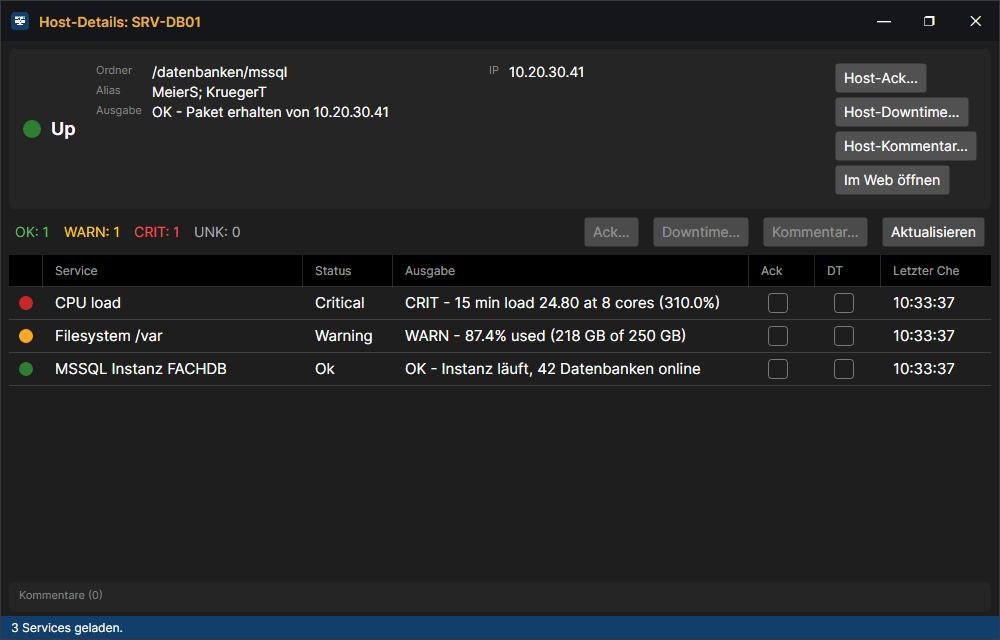
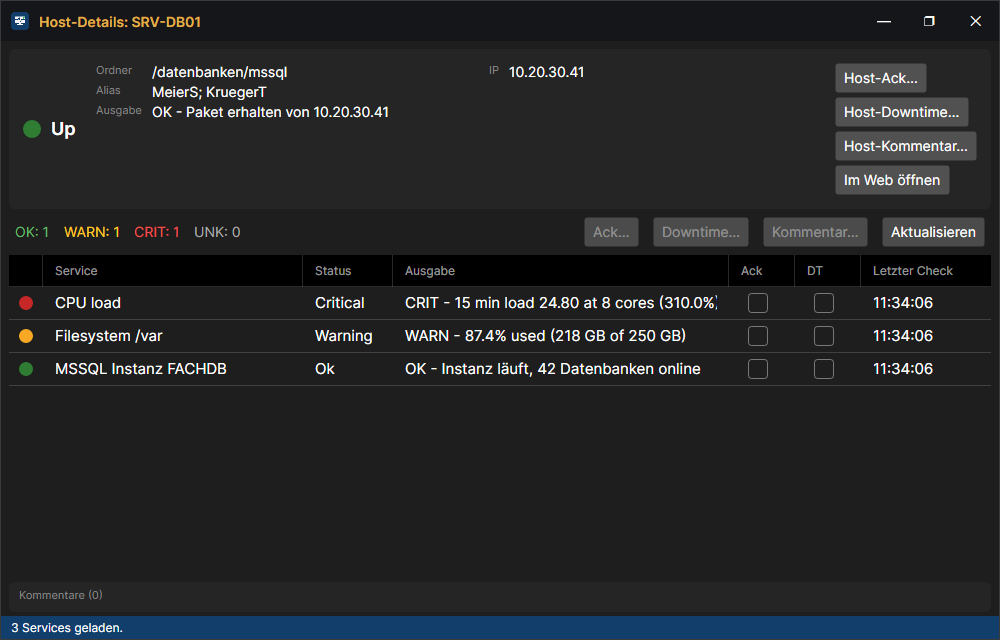
fix: fuenf Funde aus der Durchsicht, zwei davon halbe Fixes von letzter Woche
Release-Notes-Formatierer, der eigentliche Fehler eine Ebene tiefer:
Clean() schnitt die Backticks weg, BEVOR Inline() die **-Paare zaehlte. Aus
einem woertlich gemeinten `**` wurde dadurch eine echte Markierung, die
Zaehlung ging ungerade auf - und der GANZE Absatz verlor seine Fettung, mit
sichtbaren Sternchen. Im committeten docs/update.png stand genau das:
"**Das Markdown stand roh da**". Jetzt erst Code-Spannen, dann Fettung;
unpaarige Backticks bleiben stehen, symmetrisch zur **-Regel.

Spaltenbreite 50 -> 66 erreichte niemanden, der die App schon benutzt:
StatusGridColumns.Apply ueberschreibt die Vorgabe mit dem Wert aus
columns.json. Jetzt MinWidth an der Spalte UND Math.Max in Apply - die
Klemmung soll nicht von Avalonias interner Korrektur abhaengen.

Dazu:
- "Letzter Check" stand als "Letzter Che" da (110 px), im Status-Katalog wie
  im Host-Detail. 130 px, mit MinWidth.
- ScreenshotTool: Zielordner-Aufbau lag ausserhalb des try. Ohne Fenster, mit
  OnExplicitShutdown und dem UI-Waechter darueber haette ein ungueltiger Pfad
  den Prozess wortlos haengen lassen.
- Der UpdateDialog holt seinen Installer aus App.Services, und der ist im
  Werkzeugmodus null - "Jetzt installieren" fehlte im Bild, ausgerechnet der
  Knopf, um den es in den Notes ging. Wird jetzt mitgegeben.
- Status- und Filter-Manager-Bild teilten sich die Filter-Collection; seit der
  Alias-Filter dort vorgewaehlt ist, zeigte das Statusbild ein Achtel der
[…]

diff --git a/Checkmk.App/Services/ReleaseNotesFormatter.cs b/Checkmk.App/Services/ReleaseNotesFormatter.cs
@@ -145,15 +145,49 @@ public static class ReleaseNotesFormatter
 
     /// <summary>
     /// Zerlegt eine Zeile in Stücke mit und ohne Fettung (<c>**…**</c>).
+    /// Backticks fallen dabei weg, ihr Inhalt bleibt.
     ///
-    /// <para><b>Eine unpaarige Markierung bleibt stehen, statt zu
-    /// verschwinden.</b> Vorher wurden die Sternchen in jedem Fall
-    /// weggeschnitten — aus dem Satz „samt <c>##</c> und <c>**</c>" wurde
-    /// „samt ## und ." Auf dem ersten Doku-Bild gut zu sehen. Wer über Markdown
-    /// schreibt, meint die Zeichen manchmal wörtlich; ohne sauberes Paar wird
-    /// deshalb gar nichts gedeutet.</para>
+    /// <para><b>Reihenfolge ist hier alles: erst Code-Spannen, dann Fettung.</b>
+    /// Andersherum wird aus einem wörtlich gemeinten <c>`**`</c> eine echte
+    /// Markierung — und weil die Zählung dann ungerade aufgeht, verliert der
+    /// <i>ganze</i> Absatz seine Fettung. Genau so stand im Doku-Bild
+    /// <c>**Das Markdown stand roh da**</c> mit sichtbaren Sternchen.</para>
+    ///
+    /// <para>Eine unpaarige Markierung bleibt stehen, statt zu verschwinden:
+    /// Wer über Markdown schreibt, meint die Zeichen manchmal wörtlich.</para>
     /// </summary>
     public static IReadOnlyList<(string Text, bool Bold)> Inline(string text)
+    {
+        // ZUERST die Code-Spannen. Was zwischen Backticks steht, ist woertlich
+        // gemeint — ein `**` darin sind zwei Sternchen, keine Fettung.
+        var spans = text.Split('`');
+
+        // Gerade Anzahl Segmente = ungerade Anzahl Backticks = kein sauberes
+        // Paar. Dann bleibt der Backtick stehen, statt stillschweigend zu
+        // verschwinden — dieselbe Regel wie bei der Fettung unten.
+        if (spans.Length % 2 == 0) return [.. Bold(text)];
+
+        var parts = new List<(string, bool)>();
+        for (var i = 0; i < spans.Length; i++)
+        {
+            if (spans[i].Length == 0) continue;
+
+            if (i % 2 == 1)
+                parts.Add((spans[i], false));   // Code: unangetastet durchreichen
+            else
+                parts.AddRange(Bold(spans[i]));
+        }
+
+        return parts.Count == 0 ? [(text, false)] : parts;
+    }
+
+    /// <summary>
+    /// Fettung innerhalb eines Stuecks <b>ohne</b> Code-Spannen.
+    ///
+    /// <para>Eine unpaarige Markierung bleibt stehen, statt zu verschwinden:
+    /// Wer ueber Markdown schreibt, meint die Zeichen manchmal woertlich.</para>
+    /// </summary>
+    private static IEnumerable<(string Text, bool Bold)> Bold(string text)
     {
         var segments = text.Split("**");
 
@@ -182,7 +216,15 @@ public static class ReleaseNotesFormatter
             ? s[2..]
             : s[(s.IndexOf('.') + 1)..].TrimStart());
 
-    /// <summary>Backticks raus — Inline-Code als eigene Schrift zu setzen wäre
-    /// in einem Absatz mehr Unruhe als Gewinn.</summary>
-    private static string Clean(string s) => s.Replace("`", "").Trim();
+    /// <summary>
+    /// Nur trimmen.
+    ///
+    /// <para><b>Die Backticks bleiben hier stehen</b> und verschwinden erst in
+    /// <see cref="Inline"/>. Sie vorher wegzuschneiden war der eigentliche
+    /// Fehler: Aus einem woertlich gemeinten <c>`**`</c> wurde dabei eine echte
+    /// Fettungs-Markierung, die Zaehlung ging ungerade auf, und der ganze
+    /// Absatz verlor seine Fettung — im Doku-Bild stand
+    /// <c>**Das Markdown stand roh da**</c> mit sichtbaren Sternchen.</para>
+    /// </summary>
+    private static string Clean(string s) => s.Trim();
 }

diff --git a/Checkmk.Core.Tests/ReleaseNotesFormatterTests.cs b/Checkmk.Core.Tests/ReleaseNotesFormatterTests.cs
@@ -108,9 +108,17 @@ public class ReleaseNotesFormatterTests
             .Should().Contain(b => b.Kind == NoteBlockKind.Rule);
 
     [Fact]
-    public void Backticks_verschwinden_aus_dem_Fliesstext()
-        => ReleaseNotesFormatter.Parse("Die Datei `viewer.json` daneben.")
-            .Should().ContainSingle().Subject.Text.Should().Be("Die Datei viewer.json daneben.");
+    public void Backticks_verschwinden_erst_beim_Setzen()
+    {
+        // Parse laesst sie stehen — erst Inline entfernt sie. Andersherum ginge
+        // die Information verloren, dass der Inhalt woertlich gemeint war.
+        var block = ReleaseNotesFormatter.Parse("Die Datei `viewer.json` daneben.")
+            .Should().ContainSingle().Subject;
+        block.Text.Should().Be("Die Datei `viewer.json` daneben.");
+
+        var gesetzt = string.Concat(ReleaseNotesFormatter.Inline(block.Text).Select(p => p.Text));
+        gesetzt.Should().Be("Die Datei viewer.json daneben.");
+    }
 
     [Fact]
     public void Leere_Notes_ergeben_keine_Bloecke()
@@ -156,6 +164,46 @@ public class ReleaseNotesFormatterTests
     public void Text_ohne_Markierung_bleibt_ein_Stueck()
         => ReleaseNotesFormatter.Inline("Ganz normaler Satz.")
             .Should().ContainSingle().Subject.Should().Be(("Ganz normaler Satz.", false));
+
+    /// <summary>
+    /// <b>Der Fehler, der zweimal auf dem Doku-Bild stand.</b> Im Quelltext:
+    /// „**Das Markdown stand roh da**, in Schreibmaschinenschrift, samt `##`
+    /// und `**`." Wurden die Backticks vor der Fettung weggeschnitten, wurde aus
+    /// dem woertlich gemeinten `**` eine echte Markierung, die Zaehlung ging
+    /// ungerade auf — und der GANZE Absatz verlor seine Fettung, mit sichtbaren
+    /// Sternchen.
+    /// </summary>
+    [Fact]
+    public void Ein_woertliches_Sternchenpaar_in_Code_zerstoert_die_Fettung_nicht()
+    {
+        var parts = ReleaseNotesFormatter.Inline(
+            "**Das Markdown stand roh da**, in Schreibmaschinenschrift, samt `##` und `**`.");
+
+        parts.Should().Contain(p => p.Text == "Das Markdown stand roh da" && p.Bold);
+
+        var gesetzt = string.Concat(parts.Select(p => p.Text));
+        gesetzt.Should().Be(
+            "Das Markdown stand roh da, in Schreibmaschinenschrift, samt ## und **.");
+        gesetzt.Should().NotContain("**Das", "die Markierung gehoert nicht in die Anzeige");
+    }
+
+    /// <summary>Fettung und Code im selben Absatz stoeren sich nicht.</summary>
+    [Fact]
+    public void Fettung_neben_Code_funktioniert_weiter()
+    {
+        var parts = ReleaseNotesFormatter.Inline("**Pflicht**: die Datei `viewer.json`.");
+
+        parts.Should().Contain(p => p.Text == "Pflicht" && p.Bold);
+        parts.Should().Contain(p => p.Text == "viewer.json" && !p.Bold);
+    }
+
+    /// <summary>Ein einzelner Backtick ohne Gegenstueck bleibt sichtbar — das
+    /// ist ehrlicher, als stillschweigend ein Zeichen zu schlucken.</summary>
+    [Fact]
+    public void Ein_unpaariger_Backtick_bleibt_stehen()
+        => string.Concat(ReleaseNotesFormatter.Inline("Ein ` ohne Gegenstueck.")
+                .Select(p => p.Text))
+            .Should().Be("Ein ` ohne Gegenstueck.");
 
     /// <summary>Gegen die echten Notes: Der Dialog soll daraus etwas
     /// Lesbares machen, nicht eine Wand.</summary>

diff --git a/Checkmk.App/Services/StatusColumnFactory.cs b/Checkmk.App/Services/StatusColumnFactory.cs
@@ -53,9 +53,12 @@ public static class StatusColumnFactory
         // Bewusst OHNE Alters-Einfaerbung: bei svc_check_age ist "frisch" gut und
         // "alt" schlecht — genau umgekehrt zu svc_state_age, wofuer AgeToBrush
         // gebaut ist. Rot fuer einen Check, der gerade eben lief, waere irrefuehrend.
+        // 130 statt 110: „Letzter Check" ist der laengste Kopf im Katalog und
+        // wurde bei 110 zu „Letzter Che" abgeschnitten. MinWidth, weil
+        // columns.json die Breite sonst ueberstimmt (siehe Check()).
         ["svc_check_age"] = new("Letzter Check", "Zeit seit letztem Check",
-            () => Text("Letzter Check", nameof(ServiceStatus.CheckAge), 110,
-                nameof(ServiceStatus.LastCheckUnix))),
+            () => Text("Letzter Check", nameof(ServiceStatus.CheckAge), 130,
+                nameof(ServiceStatus.LastCheckUnix), minWidth: 130)),
         ["svc_state_age"] = new("Alter Status", "Zeit seit Statuswechsel",
             () => AgeColumn("Alter Status", nameof(ServiceStatus.Age),
                 nameof(ServiceStatus.LastStateChange), nameof(ServiceStatus.LastStateChangeUnix)))
@@ -111,11 +114,12 @@ public static class StatusColumnFactory
     /// <summary><paramref name="sortPath"/> setzen, wenn der angezeigte Text nicht
     /// in seiner eigenen Reihenfolge sortiert werden darf (z. B. "3 h" vs. "5 m").</summary>
     private static DataGridTextColumn Text(string header, string path, double width,
-        string? sortPath = null) => new()
+        string? sortPath = null, double minWidth = 0) => new()
     {
         Header = header,
         Binding = new Binding(path),
         Width = new DataGridLength(width),
+        MinWidth = minWidth,
         SortMemberPath = sortPath ?? path
     };
 
@@ -133,12 +137,21 @@ public static class StatusColumnFactory
     /// und die Kopfzeilen-Polsterung. Bei 50 px blieb von „Ack" ein „A" und von
     /// „DT" ein „D" übrig — aufgefallen erst auf dem ersten Doku-Bild, weil man
     /// im Alltag weiß, was in der Spalte steht.</para>
+    ///
+    /// <para><b><see cref="DataGridColumn.MinWidth"/> ist der Teil, der wirkt.</b>
+    /// <c>Width</c> allein erreicht niemanden, der die App schon benutzt hat:
+    /// <c>StatusGridColumns.Apply</c> überschreibt sie mit dem Wert aus
+    /// <c>columns.json</c>, und dort stehen bei allen, die vor dieser Version
+    /// angefangen haben, die alten 50 px. Eine Untergrenze greift dagegen
+    /// unabhängig vom gespeicherten Stand — und schmaler als lesbar soll die
+    /// Spalte ohnehin nicht werden.</para>
     /// </summary>
     private static DataGridCheckBoxColumn Check(string header, string path) => new()
     {
         Header = header,
         Binding = new Binding(path),
-        Width = new DataGridLength(66)
+        Width = new DataGridLength(66),
+        MinWidth = 66
     };
 
     /// <summary>Ampelpunkt wie im XAML-Standardgrid.</summary>

diff --git a/Checkmk.App/Tools/ScreenshotTool.cs b/Checkmk.App/Tools/ScreenshotTool.cs
@@ -62,8 +62,24 @@ internal static class ScreenshotTool
     /// <summary>Läuft, sobald Avalonia steht — rendert alles und beendet den Prozess.</summary>
     internal static async void RunAsync()
     {
-        var dir = Path.GetFullPath(_outputDir ?? "docs");
-        Directory.CreateDirectory(dir);
+        // Der ganze Rumpf in einem try: Dies ist eine `async void`-Methode ohne
+        // Fenster, mit ShutdownMode.OnExplicitShutdown und dem UI-Waechter aus
+        // App darueber. Faellt hier etwas heraus — ein ungueltiger Zielordner
+        // reicht —, schluckt der Waechter es, niemand beendet den Prozess, und
+        // das Werkzeug haengt wortlos bis zum Abbruch.
+        string dir;
+        try
+        {
+            dir = Path.GetFullPath(_outputDir ?? "docs");
+            Directory.CreateDirectory(dir);
+        }
+        catch (Exception ex)
+        {
+            Console.WriteLine($"Zielordner '{_outputDir}' nicht nutzbar: {ex.Message}");
+            Environment.Exit(2);
+            return;
+        }
+
         Console.WriteLine($"Screenshots nach {dir}");
 
         // Je Bild einzeln abfangen: Ein Fenster, das sich verschluckt, darf
@@ -245,13 +261,21 @@ internal static class ScreenshotTool
     }
 
     private static Window DemoFilterManagerWindow()
-        => new FilterManagerWindow(DemoData.FilterCollection());
+        => new FilterManagerWindow(DemoData.FilterCollection("MeierS"));
 
     private static Window DemoCatalogDialog()
         => new FilterCatalogDialog(DemoData.Catalog(), [201], "MeierS",
             DemoData.KnownHosts(), isAdmin: false);
 
+    /// <summary>
+    /// Der Installer muss mitgegeben werden, sonst <b>fehlt der wichtigste
+    /// Knopf im Bild</b>: Ohne ihn blendet der Dialog „Jetzt installieren" aus
+    /// und macht „Release-Seite öffnen" zum Hauptknopf. Der Dialog holt sich
+    /// den Installer sonst aus <c>App.Services</c> — und das ist im
+    /// Werkzeugmodus bewusst <c>null</c>. Geklickt wird hier nichts, es wird
+    /// also auch nichts heruntergeladen.
+    /// </summary>
     private static Window DemoUpdateDialog()
-        => new UpdateDialog(DemoData.UpdateInfo());
+        => new UpdateDialog(DemoData.UpdateInfo(), new UpdateInstaller());
 }
 #endif

diff --git a/Checkmk.App/Tools/DemoData.cs b/Checkmk.App/Tools/DemoData.cs
@@ -152,14 +152,20 @@ internal static class DemoData
 
     // --- Filter -----------------------------------------------------------
 
-    internal static HostFilterCollection FilterCollection()
+    /// <summary>
+    /// <paramref name="activeName"/> entscheidet, welcher Filter vorgewählt ist
+    /// — und das ist je Bild ein anderer: Die Statusansicht soll den vollen
+    /// Bestand zeigen („Alle"), der Filter-Manager den Alias-Filter, damit der
+    /// Umschalter „Regex vergleichen mit" im Bild etwas tut. Mit einer
+    /// gemeinsamen Vorauswahl stand im Statusbild nur ein Achtel der Zeilen,
+    /// während die Zähler darüber weiter von allen sprachen.
+    /// </summary>
+    internal static HostFilterCollection FilterCollection(string activeName = "Alle")
     {
         var store = new FixedFilters(new HostFilterState
         {
             Seeded = true,
-            // Der Alias-Filter ist vorgewählt — so zeigt das Bild, was der
-            // Umschalter „Regex vergleichen mit" tut.
-            ActiveFilterName = "MeierS",
+            ActiveFilterName = activeName,
             Filters =
             [
                 // Owner bleibt leer: `IsAuthor` fällt dann auf true zurück, der

diff --git a/Checkmk.App/Services/StatusGridColumns.cs b/Checkmk.App/Services/StatusGridColumns.cs
@@ -79,7 +79,16 @@ public static class StatusGridColumns
             {
                 column.IsVisible = setting.Visible;
                 if (setting.Width is > 0)
-                    column.Width = new DataGridLength(setting.Width.Value);
+                {
+                    // Nie unter die Untergrenze der Spalte. Der gespeicherte
+                    // Wert stammt aus einer frueheren Version und kann zu
+                    // schmal sein — bei „Ack"/„DT" standen so lange 50 px in
+                    // columns.json, dass vom Kopf nur „A" bzw. „D" uebrigblieb.
+                    // Eine neue Vorgabe in der Factory allein erreicht diese
+                    // Anwender nicht, weil genau diese Zeile sie ueberschreibt.
+                    column.Width = new DataGridLength(
+                        Math.Max(setting.Width.Value, column.MinWidth));
+                }
             }
             grid.Columns.Add(column);
         }

diff --git a/CLAUDE.md b/CLAUDE.md
@@ -1046,7 +1046,7 @@ schiefging, statt es nur zu überleben.
 **Doku-Bilder entstehen aus der App selbst** (`Checkmk.App.exe --screenshots docs`,
 nur im Debug-Build, `Tools/ScreenshotTool.cs` + `Tools/DemoData.cs`). Die Fenster
 werden mit erfundenen Daten gebaut, außerhalb des Bildschirms gezeigt und per
-`RenderTargetBitmap` gerendert. Fünf Punkte:
+`RenderTargetBitmap` gerendert. Sieben Punkte:
 1. **Erfundene Daten sind Pflicht, nicht Kosmetik.** Das Repository ist
    öffentlich; ein Bild aus dem Betrieb zeigt Hostnamen, `lhp.intern` und über
    den Host-Alias die Anmeldenamen der Kollegen.
@@ -1063,7 +1063,20 @@ werden mit erfundenen Daten gebaut, außerhalb des Bildschirms gezeigt und per
    drei echte Fehler gezeigt, die kein Test findet: abgeschnittene
    Spaltenköpfe („A" statt „Ack", 50 px zu schmal), ein rohes `False` im
    Host-Kopf (`Ack`-Zeile, überflüssig neben dem Abzeichen) und ein
-   verschlucktes unpaariges `**` im Release-Notes-Formatierer.
+   verschlucktes unpaariges `**` im Release-Notes-Formatierer. Der **zweite**
+   Durchgang zeigte, dass zwei davon nur halb behoben waren — siehe die zwei
+   Punkte unten. Ein Bild anzusehen lohnt sich also auch nach dem Fix.
+6. **Eine neue Spaltenbreite erreicht Bestandsanwender nicht.**
+   `StatusGridColumns.Apply` überschreibt die Vorgabe aus
+   `StatusColumnFactory` mit dem Wert aus `columns.json`. Deshalb tragen die
+   betroffenen Spalten ein `MinWidth`, **und** `Apply` klemmt den gespeicherten
+   Wert per `Math.Max` dagegen. Beides zusammen, weil die Klemmung sonst von
+   Avalonias interner Korrektur abhinge.
+7. **Im Werkzeugmodus fehlt, was an `App.Services` hängt.** Der Container ist
+   dort `null` — der `UpdateDialog` blendete deshalb „Jetzt installieren" aus
+   und machte „Release-Seite öffnen" zum Hauptknopf. Ausgerechnet der Knopf,
+   um den es in den Release-Notes ging, fehlte im Bild. Abhängigkeiten also
+   ausdrücklich mitgeben, nicht auf den Container hoffen.
 Nicht auf UI-Fernsteuerung von außen umbauen (`SetForegroundWindow`,
 `mouse_event`, `PrintWindow`): Das ist aus Sicht der Verhaltens-AV das Muster
 eines RATs und wird auf dem Arbeitslaptop blockiert.
